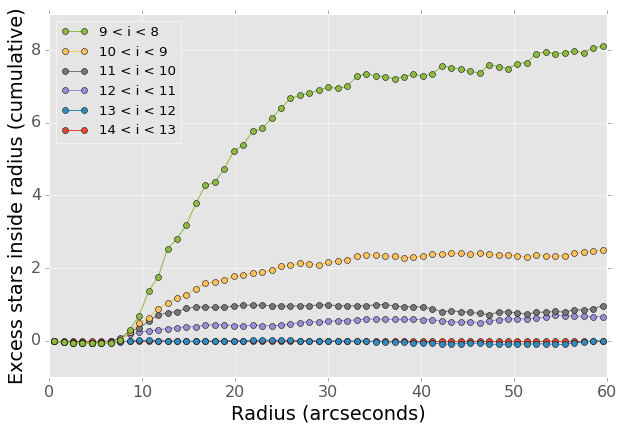
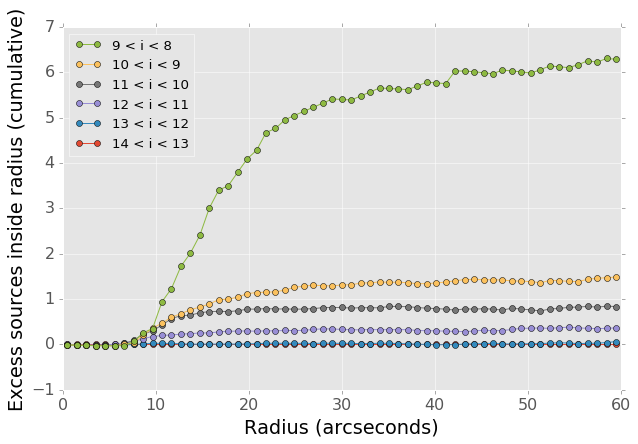
Update bright star correlation to exclude dipoles.

diff --git a/python/star_diffim_correlation.py b/python/star_diffim_correlation.py
@@ -164,7 +164,7 @@ def star_diffim_correlation(visit, ccdnum, butler, sql_session=None, debug=False
 
     forced_src_SNR = (diff_force_src['base_PsfFlux_flux'] - diff_force_src['template_base_PsfFlux_flux']) /  \
                     np.sqrt(diff_force_src['base_PsfFlux_fluxSigma']**2 + diff_force_src['template_base_PsfFlux_fluxSigma']**2)
-    sel_filtered_diasources, = np.where(np.abs(forced_src_SNR) > 5.0)
+    sel_filtered_diasources, = np.where((np.abs(forced_src_SNR) > 5.0) & (diff_src['classification_dipole'] == 0))
     filtered_SNRs = forced_src_SNR[sel_filtered_diasources]
 
     diasource_catalog = coord.SkyCoord(ra=diff_ra[sel_filtered_diasources], dec=diff_dec[sel_filtered_diasources],

diff --git a/index.rst b/index.rst
@@ -407,7 +407,7 @@ An approximate fit for this power law is shown in
 written as
 
 .. math::
-  C = (M/11.0)^{-7},
+  C = (M/10.4)^{-8},
 
 where M is the i-band magnitude of the bright star. These detections are then
 spread uniformly in an annulus around the bright source of size
